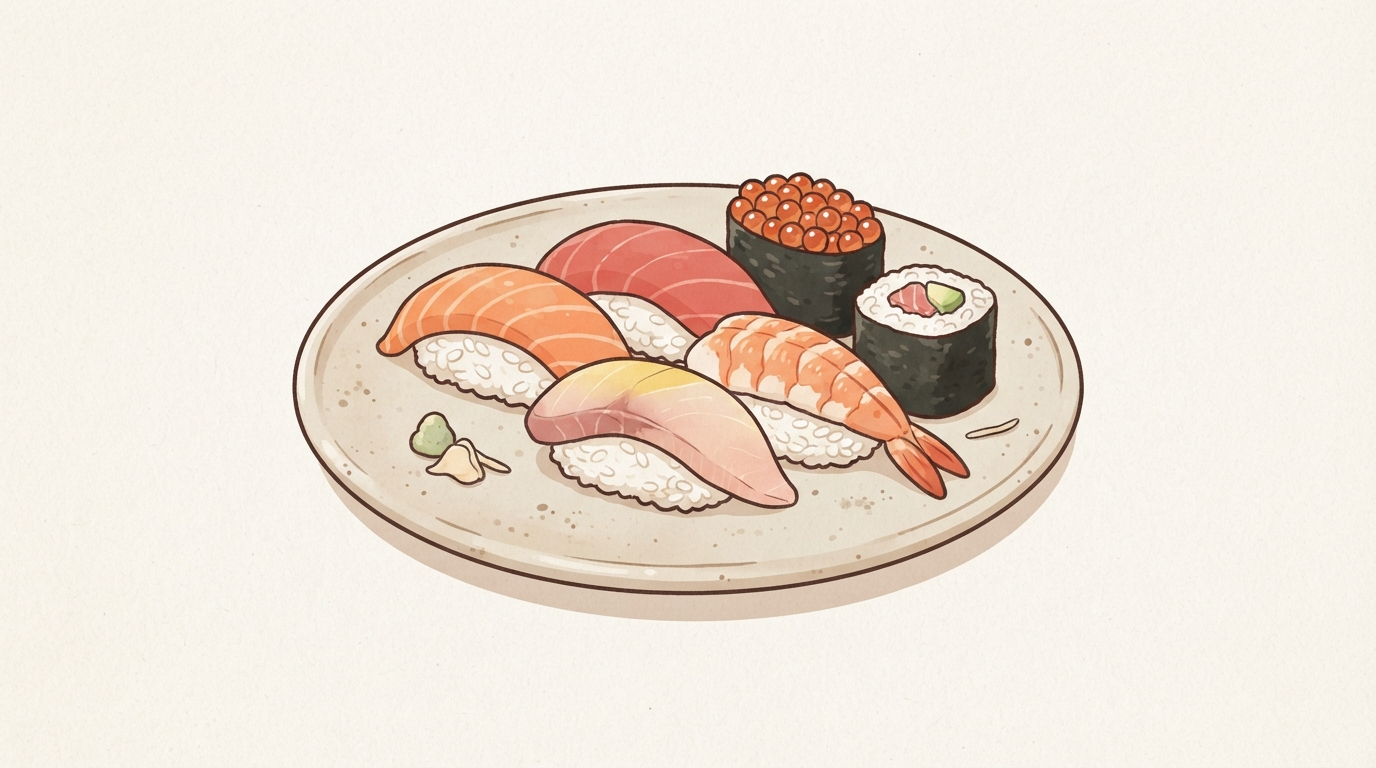
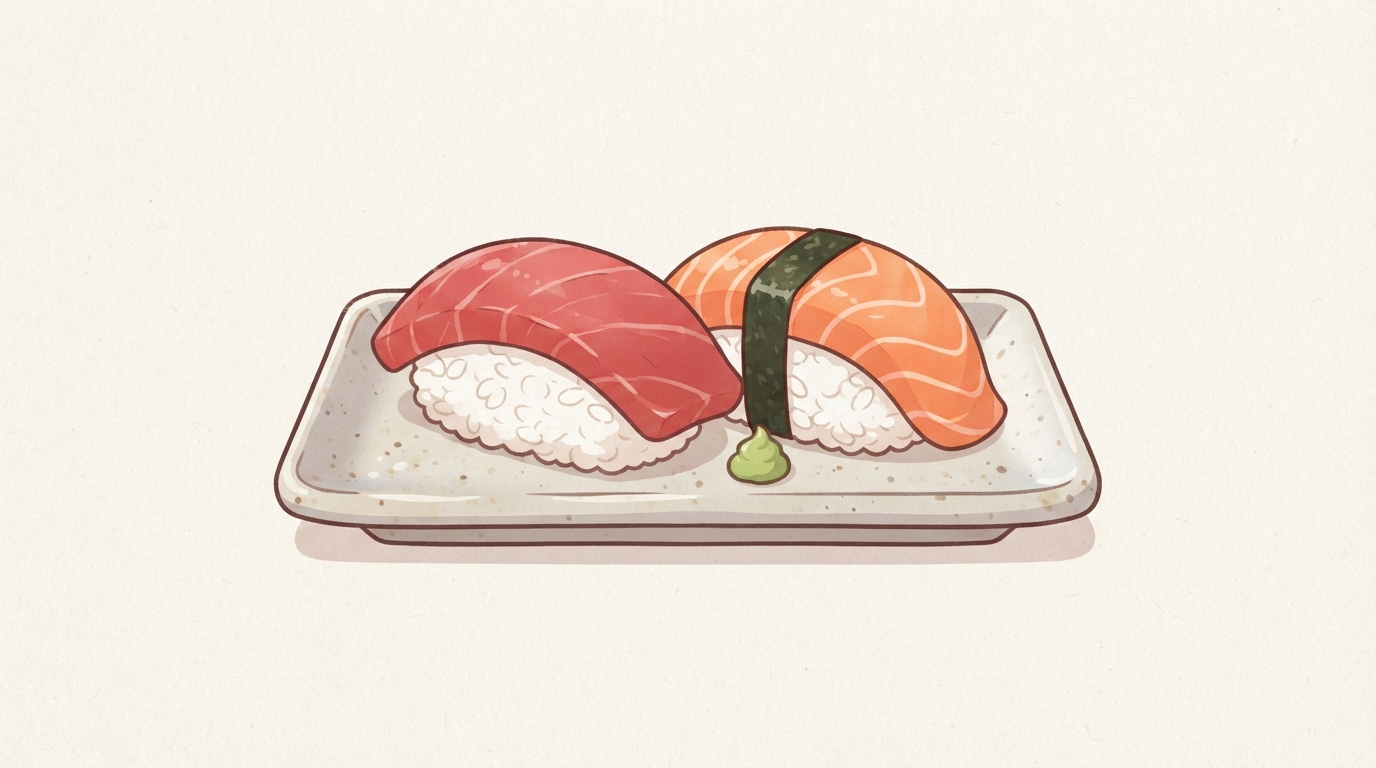
Add food discovery hierarchy

Changed region(s): [[0.1875, 0.2188, 0.8125, 0.8125]]

diff --git a/pokedex/tests/useFoodPokedex.test.ts b/pokedex/tests/useFoodPokedex.test.ts
@@ -70,9 +70,11 @@ describe('useFoodPokedex', () => {
   it('filters foods by search term and category', async () => {
     const state = mountComposable()
 
-    expect(state.filteredFoods.value).toHaveLength(87)
-    expect(foods.filter((food) => food.essential)).toHaveLength(14)
-    expect(state.categories).toEqual(['All', 'Noodles', 'Rice & Bowls', 'Meat', 'Seafood', 'Dumplings & Buns', 'Sweets', 'Savory', 'Drinks'])
+    expect(state.filteredFoods.value.map((food) => food.id)).toContain('ramen')
+    expect(state.filteredFoods.value.map((food) => food.id)).not.toContain('tsukemen')
+    expect(foods.some((food) => food.essential)).toBe(true)
+    expect(state.categories).toContain('All')
+    expect(state.categories).toContain('Noodles')
 
     state.searchTerm.value = '寿司'
     await nextTick()
@@ -107,12 +109,12 @@ describe('useFoodPokedex', () => {
     const state = mountComposable()
 
     expect(state.eatenEssentialCount.value).toBe(0)
-    expect(state.essentialCount).toBe(14)
+    expect(state.essentialCount).toBeGreaterThan(0)
     await state.toggleEaten('ramen')
     await nextTick()
     expect(state.eatenFoods.value).toEqual(['ramen'])
     expect(state.eatenCount.value).toBe(1)
-    expect(state.eatenEssentialCount.value).toBe(1)
+    expect(state.eatenEssentialCount.value).toBeGreaterThan(0)
     expect(state.checkins.value[0]).toMatchObject({ foodId: 'ramen', rating: 5 })
 
     await state.toggleEaten('ramen')
@@ -159,8 +161,8 @@ describe('useFoodPokedex', () => {
 
     state.eatenFilter.value = 'uneaten'
     await nextTick()
-    expect(state.filteredFoods.value).toHaveLength(88)
     expect(state.filteredFoods.value.some((food) => food.id === 'ramen')).toBe(false)
+    expect(state.filteredFoods.value.some((food) => food.id === 'sushi')).toBe(true)
   })
 
   it('hides variations until their parent has been checked in', () => {
@@ -168,7 +170,7 @@ describe('useFoodPokedex', () => {
 
     expect(state.visibleFoods.value.some((food) => food.id === 'sushi')).toBe(true)
     expect(state.visibleFoods.value.some((food) => food.id === 'uni-gunkan')).toBe(false)
-    expect(state.lockedVariationCount.value).toBe(29)
+    expect(state.lockedVariationCount.value).toBeGreaterThan(0)
   })
 
   it('does not expose locked variations through search or filters', async () => {
@@ -192,7 +194,7 @@ describe('useFoodPokedex', () => {
 
     expect(state.visibleFoods.value.map((food) => food.id)).toContain('tsukemen')
     expect(state.visibleFoods.value.map((food) => food.id)).toContain('hiyashi-chuka')
-    expect(state.lockedVariationCount.value).toBe(27)
+    expect(state.visibleFoods.value.map((food) => food.id)).toContain('tanmen')
   })
 
   it('unlocks Japanese mixed drink variations from the singular parent', async () => {
@@ -206,7 +208,6 @@ describe('useFoodPokedex', () => {
       'highball',
       'chuhai'
     ]))
-    expect(state.lockedVariationCount.value).toBe(25)
   })
 
   it('uses unlocked foods for progress after all essential foods are eaten', async () => {
@@ -214,13 +215,14 @@ describe('useFoodPokedex', () => {
 
     for (const food of foods.filter((item) => item.essential)) await state.checkIn(food.id, 5)
 
-    expect(state.progressCount.value).toBe(14)
-    expect(state.progressTotal.value).toBe(98)
-    expect(state.eatenCount.value).toBe(14)
+    expect(state.progressCount.value).toBeGreaterThan(0)
+    expect(state.progressTotal.value).toBeGreaterThan(state.progressCount.value)
+    const progressBeforeOptionalFood = state.progressCount.value
+    const eatenBeforeOptionalFood = state.eatenCount.value
 
     await state.checkIn('udon', 4)
-    expect(state.progressCount.value).toBe(15)
-    expect(state.eatenCount.value).toBe(15)
+    expect(state.progressCount.value).toBe(progressBeforeOptionalFood + 1)
+    expect(state.eatenCount.value).toBe(eatenBeforeOptionalFood + 1)
   })
 
   it('restores saved eaten foods on mount', async () => {

diff --git a/pokedex/tests/foodCatalog.test.ts b/pokedex/tests/foodCatalog.test.ts
@@ -128,13 +128,33 @@ describe('food catalog domain rules', () => {
     })
   })
 
-  it('reports the current catalog counts through the domain functions', () => {
+  it('preserves catalog invariants and essential-first progress behavior', () => {
     expect(catalogInvariantErrors(foods)).toEqual([])
-    expect(visibleFoods(foods, new Set())).toHaveLength(87)
-    expect(lockedVariationCount(foods, new Set())).toBe(29)
-    expect(catalogProgress(foods, new Set())).toMatchObject({
-      essentialCount: 14,
-      progressTotal: 14
+    const visible = visibleFoods(foods, new Set())
+    expect(visible.some((food) => food.id === 'ramen')).toBe(true)
+    expect(visible.some((food) => food.id === 'tsukemen')).toBe(false)
+    expect(lockedVariationCount(foods, new Set())).toBeGreaterThan(0)
+
+    const progress = catalogProgress(foods, new Set())
+    expect(progress.essentialCount).toBeGreaterThan(0)
+    expect(progress.progressTotal).toBe(progress.essentialCount)
+  })
+
+  it('uses the chosen discovery hierarchy for dish variations', () => {
+    const parentById = new Map(foods.map((food) => [food.id, food.parentId]))
+
+    expect(Object.fromEntries([
+      'katsudon',
+      'tendon',
+      'kaisendon',
+      'tekkadon',
+      'tanmen'
+    ].map((id) => [id, parentById.get(id)]))).toEqual({
+      katsudon: 'tonkatsu',
+      tendon: 'tempura',
+      kaisendon: 'sushi',
+      tekkadon: 'sushi',
+      tanmen: 'ramen'
     })
   })
 
@@ -172,19 +192,21 @@ describe('food catalog domain rules', () => {
   })
 
   it('builds category sections from filtered foods and eaten state', () => {
+    const visible = visibleFoods(foods, new Set())
     const sections = categorySections(
-      foods.filter((food) => food.category === 'Noodles'),
-      visibleFoods(foods, new Set()),
+      visible.filter((food) => food.category === 'Noodles'),
+      visible,
       ['All', 'Noodles'],
       new Set(['ramen']),
       false
     )
 
-    expect(sections).toEqual([expect.objectContaining({
-      category: 'Noodles',
-      totalCount: 6,
-      eatenCount: 1
-    })])
+    expect(sections).toHaveLength(1)
+    expect(sections[0].category).toBe('Noodles')
+    expect(sections[0].foods.map((food) => food.id)).toContain('udon')
+    expect(sections[0].foods.map((food) => food.id)).not.toContain('tanmen')
+    expect(sections[0].eatenCount).toBeGreaterThan(0)
+    expect(sections[0].totalCount).toBeGreaterThanOrEqual(sections[0].foods.length)
     expect(categorySections([], foods, ['All', 'Noodles'], new Set(), true)).toEqual([{
       category: '',
       foods: [],

diff --git a/pokedex/tests/app.test.ts b/pokedex/tests/app.test.ts
@@ -26,7 +26,7 @@ describe('application flow', () => {
     const wrapper = mountApp()
     await nextTick()
 
-    expect(wrapper.find('.locked-notice').text()).toContain('29 variations')
+    expect(wrapper.find('.locked-notice').text()).toMatch(/variations awaiting a parent check-in/)
     expect(wrapper.text()).not.toContain('Uni gunkan')
   })
 
@@ -45,8 +45,10 @@ describe('application flow', () => {
     await nextTick()
 
     expect(wrapper.find('.checkin-dialog').exists()).toBe(false)
-    expect(wrapper.find('.locked-notice').text()).toContain('23 variations')
+    expect(wrapper.find('.locked-notice').text()).toMatch(/variations awaiting a parent check-in/)
     expect(wrapper.text()).toContain('Uni gunkan')
+    expect(wrapper.text()).toContain('Kaisendon')
+    expect(wrapper.text()).toContain('Tekkadon')
   })
 
   it('edits and removes a check-in from the food details dialog', async () => {

diff --git a/pokedex/tests/e2e/catalog.spec.ts b/pokedex/tests/e2e/catalog.spec.ts
@@ -29,8 +29,10 @@ test('checks in a root food and persists unlocked variations', async ({ page }) 
   await expect(page.getByRole('dialog', { name: 'Check in food' })).toBeHidden()
 
   await search.fill('')
-  await expect(page.getByText('23 variations awaiting a parent check-in.')).toBeVisible()
+  await expect(page.getByText(/variations awaiting a parent check-in\./)).toBeVisible()
   await expect(page.getByRole('heading', { name: 'Uni gunkan' })).toBeVisible()
+  await expect(page.getByRole('heading', { name: 'Kaisendon' })).toBeVisible()
+  await expect(page.getByRole('heading', { name: 'Tekkadon' })).toBeVisible()
 
   await page.reload()
 

diff --git a/pokedex/scripts/food_gen.py b/pokedex/scripts/food_gen.py
@@ -62,7 +62,6 @@ def get_drink_names() -> list[str]:
 def generate_image(item, master_prompt: str):
     output_path = ASSETS_DIR / f"{item}_image.png"
     if output_path.exists():
-        print(f"Skipping {item}. Already exists.")
         return
     else:
         print(f"Generating {item}.")

diff --git a/thoughts/0004-current-architecture-and-loose-ends.md b/thoughts/0004-current-architecture-and-loose-ends.md
@@ -11,8 +11,8 @@ saving personal photos.
 The runtime catalog currently contains:
 
 - 116 total entries
-- 87 root-level entries visible initially
-- 29 locked variations
+- 82 root-level entries visible initially
+- 34 locked variations
 - 14 essential entries
 
 The current progress display uses the 14 essential entries first. After all
@@ -52,8 +52,11 @@ artwork is missing.
 The current two-tier chains are:
 
 ```text
+Ramen -> Tsukemen, Hiyashi chuka, Tanmen
 Sushi -> Uni gunkan, Ikura gunkan, Anago nigiri, Hotate nigiri,
-         Engawa nigiri, Kani maki
+         Engawa nigiri, Kani maki, Kaisendon, Tekkadon
+Tempura -> Tendon
+Tonkatsu -> Katsudon
 Udon -> Curry udon, Yaki-udon, Sara udon
 Mochi -> Daifuku
 Dango -> Mitarashi dango
@@ -64,7 +67,6 @@ Tea -> Green Tea, Hojicha, Mugicha
 Sake -> Junmai Sake, Ginjo Sake, Nigori Sake, Namazake
 Japanese mixed drink -> Hoppy Set, Lemon Sour, High Ball, Chuhai
 Shochu -> Imo Shochu, Mugi Shochu
-Ramen -> Tsukemen, Hiyashi chuka
 ```
 
 Entries without `parentId` are visible initially. A variation becomes visible after
@@ -188,7 +190,7 @@ renames.
 
 ### 3. Refine hierarchy UX
 
-The current UI shows a count such as "29 variations awaiting a parent check-in," but
+The current UI shows a count such as "34 variations awaiting a parent check-in," but
 does not say which parent unlocks which entries. Consider:
 
 - showing locked children grouped under their parent;

diff --git a/thoughts/0005-test-coverage-and-separation-refactor.md b/thoughts/0005-test-coverage-and-separation-refactor.md
@@ -30,7 +30,7 @@ legacy `user_foods` check-ins and photo paths, then drops that table. The
 selected-photo state. The operational checks listed in the architecture notes
 remain valid.
 
-The current unit suite has 64 passing tests across 13 files. The latest measured
+The current unit suite has 65 passing tests across 13 files. The latest measured
 unit coverage is 82.25% statements overall, with the pure domain modules at 100%.
 Two Playwright journeys additionally cover the generated static site in a real
 Chromium browser.
@@ -42,7 +42,7 @@ local/cloud adapter contracts, image processing, authentication, and the primary
 catalog/photo journeys. It does not yet provide complete confidence in live
 Supabase persistence or every location/modal interaction:
 
-- `npm test` passes 64 tests.
+- `npm test` passes 65 tests.
 - `npm run test:e2e` covers catalog persistence and the photo crop/upload/select/remove journey.
 - `npm run test:integration` still covers one Supabase authentication smoke test;
   it does not yet exercise live progress or photo CRUD.
@@ -61,7 +61,7 @@ integration behind ports, and finally add focused adapter and component tests.
 
 ## Current test baseline
 
-The 64 current unit tests are distributed as follows:
+The 65 current unit tests are distributed as follows:
 
 | Test file | Tests | Current scope |
 |---|---:|---|

diff --git a/thoughts/food.md b/thoughts/food.md
@@ -23,11 +23,15 @@ Tempura
 Japanese Curry
 Gyūdon
 Soba
-Wagashi
 Okonomiyaki
 Kakigori
 Unagi
 Ekiben
+
+- remove: nerikiri, kakigori, okonomiyaki, tonkatsu, japanese curry rice, unagi kabayaki, 
+- add: hoppy set, onigiri
+
+
 
 #### Not essential
 Everything else
